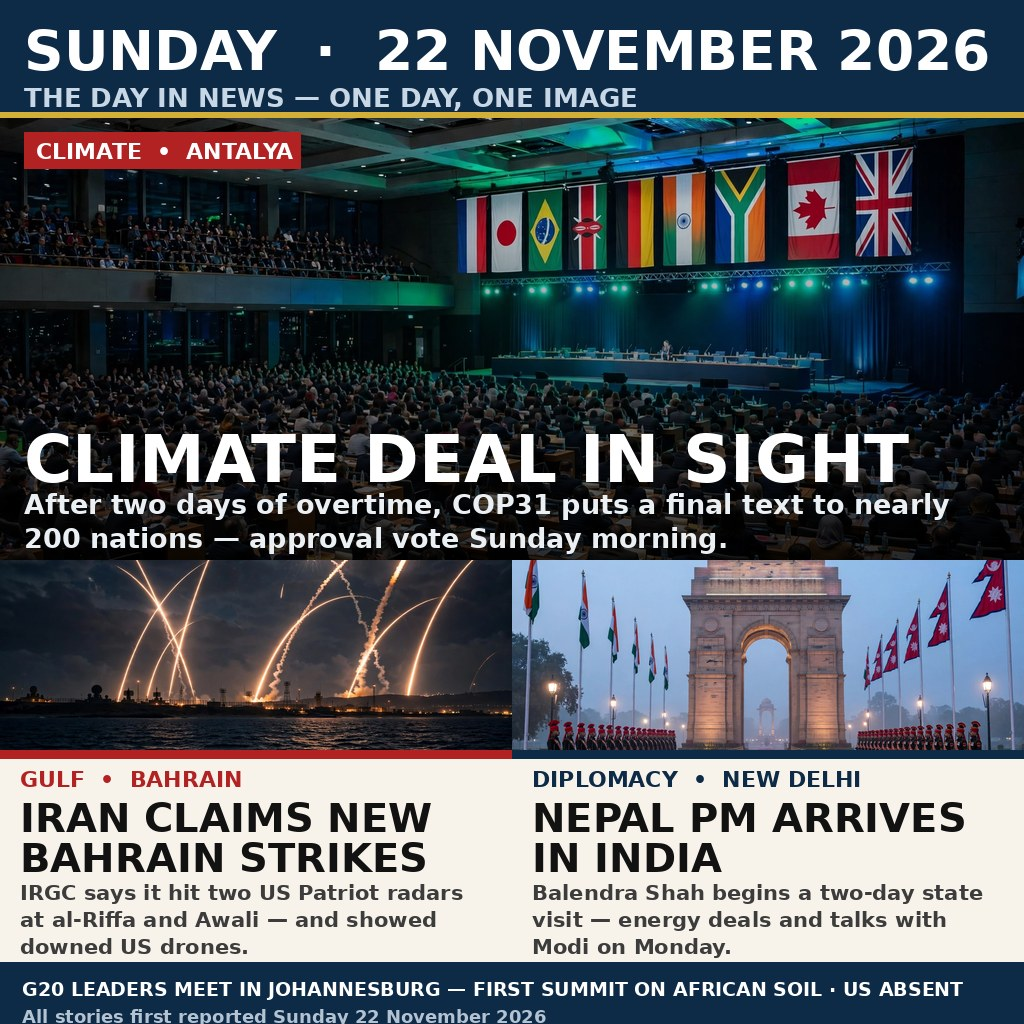
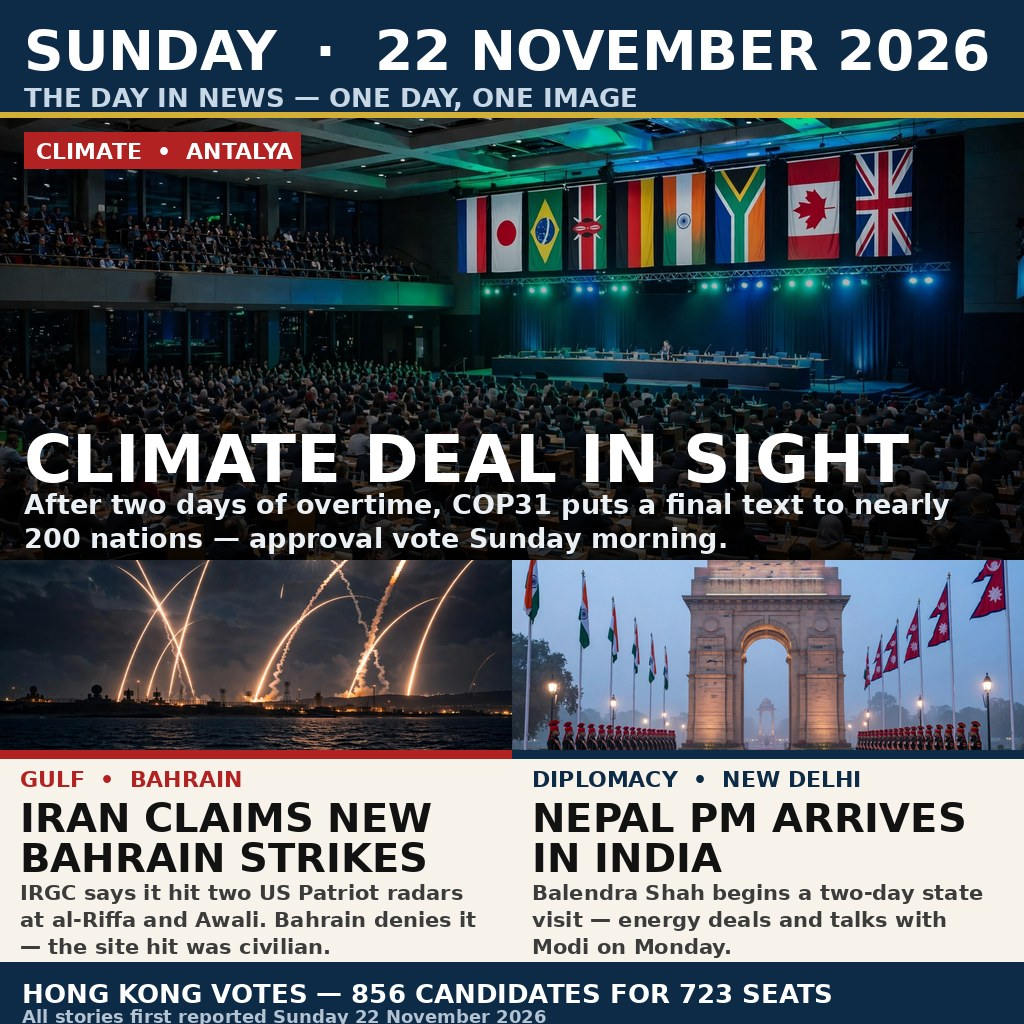
Rebuild poster: replace 2025 G20 strip with Hong Kong vote (22 Nov 2026); Bahrain panel adds denial; README badges, drop referral line
- Bottom strip was the Johannesburg G20 summit of 22-23 Nov 2025.
  Replaced with the Hong Kong Election Committee vote of Sunday
  22 November 2026: 856 candidates for 723 seats (SCMP / China
  Daily Asia). All four poster stories are now 22 Nov 2026 only.
- Gulf panel: IRGC radar claim now paired with Bahrain's denial
  (Foreign Ministry, 00:08 GMT 22 Nov) and the civilian-site fact.
- README: three live make.fun badges; referral-code line deleted
  (never filled); rejected look-alikes from 15-21 Nov listed.

Changed region(s): [[0.0, 0.875, 0.9375, 1.0]]

diff --git a/README.md b/README.md
@@ -4,25 +4,37 @@ One image summing up the world's news of Sunday 22 November 2026,
 built for the make.fun competition
 [`news-image-20261122`](https://make.fun/bounty/news-image-20261122).
 
+[![make.fun · news-image-20261122](https://make.fun/badge/news-image-20261122.svg)](https://make.fun/bounty/news-image-20261122?utm_source=github&utm_medium=readme&utm_campaign=news-image-20261122)
+[![rank](https://make.fun/badge/news-image-20261122/Omar08263/news-image-20261122/rank.svg)](https://make.fun/bounty/news-image-20261122/leaderboard?utm_source=github&utm_medium=readme&utm_campaign=news-image-20261122)
+[![reward](https://make.fun/badge/news-image-20261122/Omar08263/news-image-20261122/reward.svg)](https://make.fun/bounty/news-image-20261122?utm_source=github&utm_medium=readme&utm_campaign=news-image-20261122)
+
 ## The poster
 
 - **Hero — COP31, Antalya:** after two days of overtime, the climate
   talks put a final text to nearly 200 nations; the approval vote is
   held Sunday morning (Reuters / Straits Times, 22 November).
-- **Gulf — Bahrain:** Iran's IRGC claims new strikes on two US Patriot
-  radars at al-Riffa and Awali, and shows downed US drones
-  (ANI / The Tribune, first reported 22 November).
+- **Gulf — Bahrain:** Iran's IRGC claims it hit two US Patriot radars
+  at al-Riffa and Awali; Bahrain denies it — the site hit was civilian,
+  a fire with no injuries (Bahrain Foreign Ministry, 00:08 GMT
+  22 November; ANI).
 - **New Delhi:** Nepal's Prime Minister Balendra Shah arrives for a
   two-day state visit to India — energy deals and talks with Modi on
   Monday (The Hindu, arrival Sunday 22 November).
-- **Strip — G20:** leaders meet in Johannesburg, the first G20 summit
-  on African soil; the United States is absent.
+- **Strip — Hong Kong:** voters go to the polls for the Election
+  Committee subsector elections — 856 candidates for 723 seats on the
+  body that picks the city's next leader (SCMP / China Daily Asia,
+  polls Sunday 22 November, 9am–6pm).
 
 Every story on the poster happened, or was first reported, on
 Sunday 22 November 2026. Stories from Friday and Saturday that the
 morning digests repeat (the Peru quake, the Kryvyi Rih strike, the
 Baltic cargo-ship fire, the El Chapo Isidro capture, the French police
 verdict) were checked and left out: they are not this day's news.
+A second check rejected seven more look-alikes the digests date
+22 November but which happened 15–21 November: the Gaza aid joint
+statement (15 Nov), the ICJ Myanmar verdict (19 Nov), the Brazil
+storm and the Denmark plot charge (20 Nov), and the Houthi Riyadh
+strikes, the Pentagon Canada memo and the Trump card-cap vow (21 Nov).
 
 ## How it is built
 
@@ -38,5 +50,3 @@ bytes. No network is used at run time.
 ```sh
 mkdir -p out && MAKEFUN_OUTPUT_DIR=out node main.ts
 ```
-
-Referral code: {referral_code}
